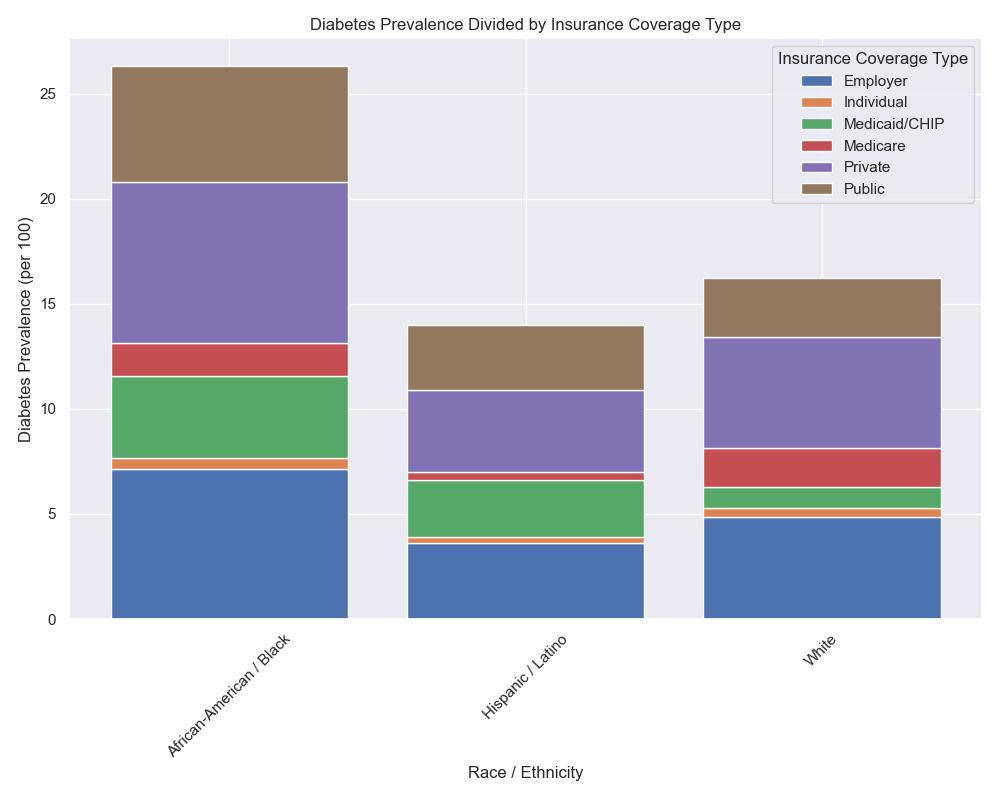
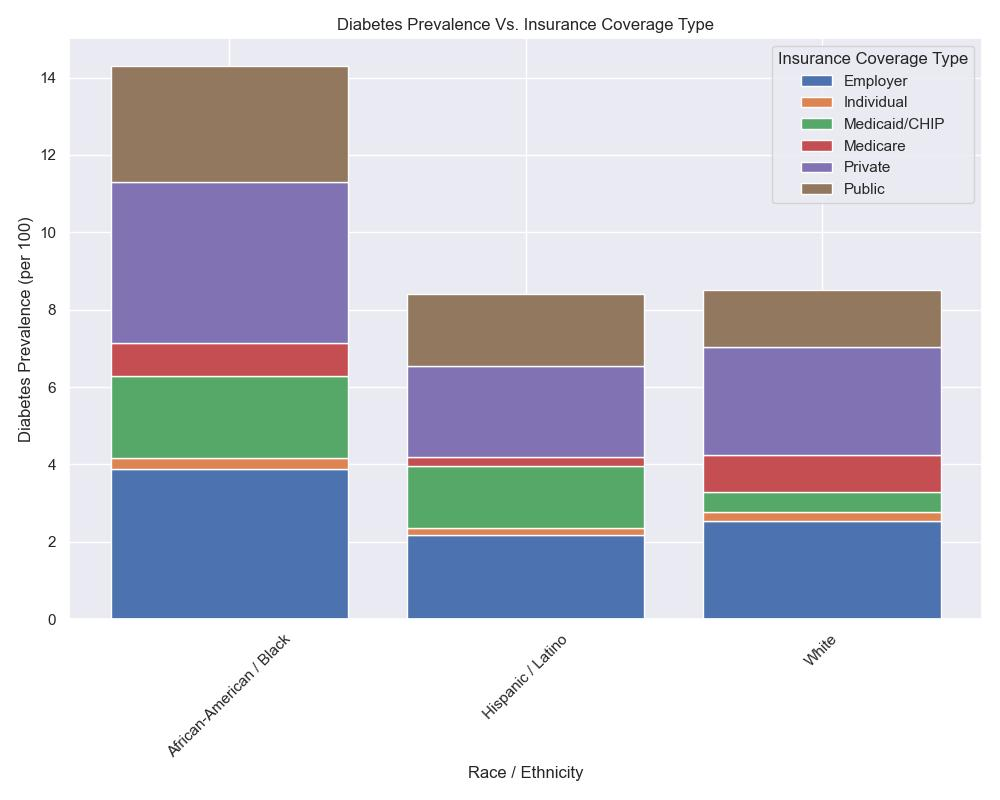
more changes

diff --git a/final_project.py b/final_project.py
@@ -6,7 +6,6 @@ Final Project
 
 # import libraries
 import pandas as pd
-import geopandas as gpd
 import matplotlib.pyplot as plt
 import seaborn as sns
 
@@ -127,8 +126,11 @@ def visualize_q1_fig2(data: pd.DataFrame):
     # remove insured and uninsured
     insurance = insurance.drop(columns=['Insured', 'Uninsured'])
 
+    # normalize the remaining coverage percentages
+    insurance = insurance.div(insurance.sum(axis=1), axis=0)
+
     # get diabetes prevalence for each race
-    diabetes = data.groupby('Race / Ethnicity')['Data Value'].first()
+    diabetes = data.groupby('Race / Ethnicity')['Data Value'].first() * 100
 
     # calculate proportional diabetes prevalence
     insurance = insurance / 100
